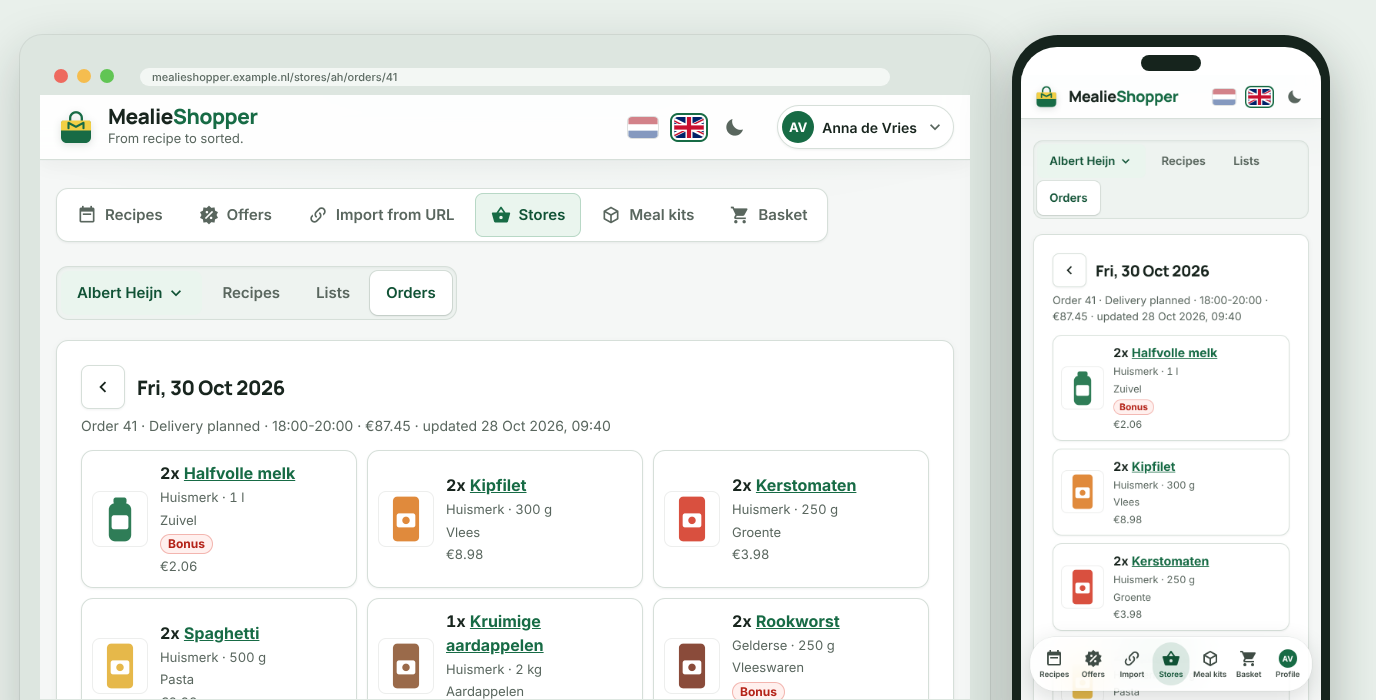
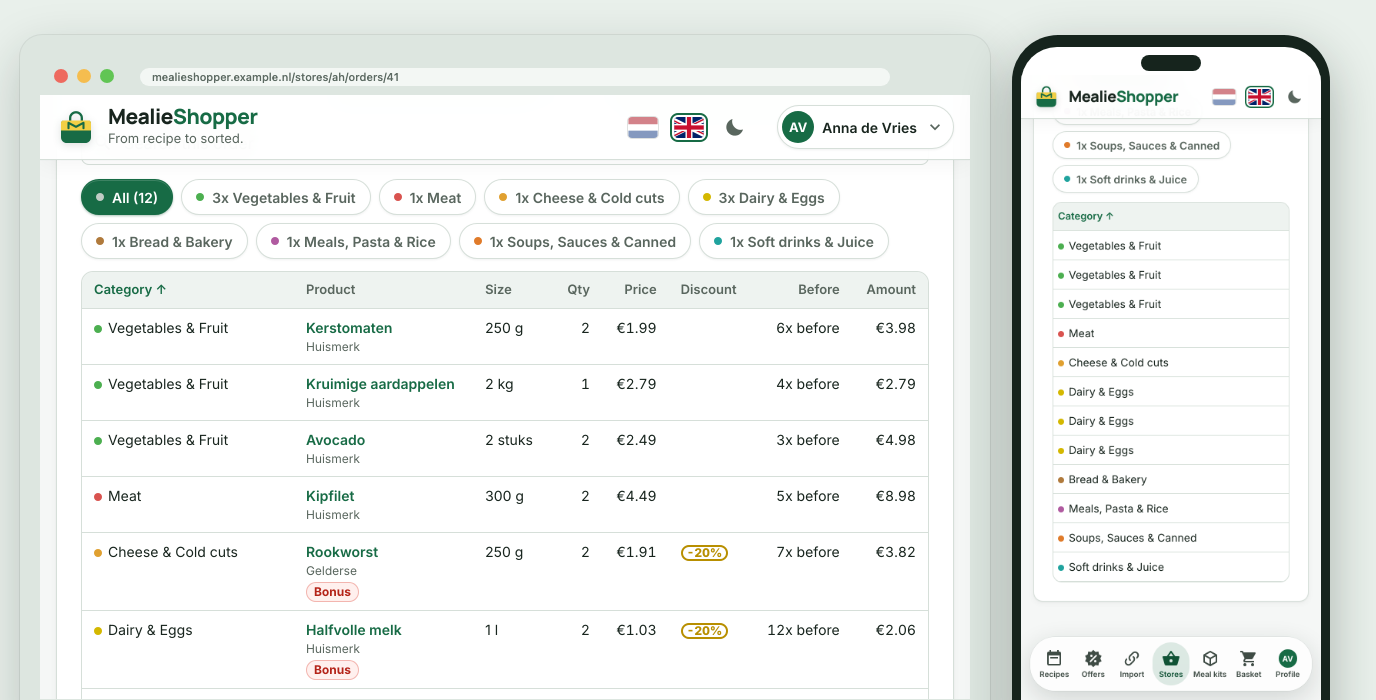
Screenshots van bestelling en kassabon met de weergavebalk van 3.8 (scenario 20 bijgewerkt, ook de lijstscenario's), alt-teksten bij de handleiding en geen puntkomma's meer in de herschreven alinea

diff --git a/scripts/screenshots/scenarios/20-ah-store.js b/scripts/screenshots/scenarios/20-ah-store.js
@@ -86,10 +86,12 @@ async function orders(route, request) {
   const open = (id, date, total, items, text) => ({
     id, kind: "open", state: "OPEN", stateText: text, shoppingType: "HOME_DELIVERY", method: "DELIVERY", total, deliveryDate: date,
     slotStart: "18:00", slotEnd: "20:00", itemsSynced: true, syncedAt: "2026-10-28T09:40:00", itemCount: items,
+    statusKind: "planned", statusText: text,
   });
   const done = (id, date, total, items) => ({
     id, kind: "closed", state: "DELIVERED", stateText: nl ? "Geleverd" : "Delivered", shoppingType: "HOME_DELIVERY", method: "DELIVERY", total, deliveryDate: date,
     slotStart: "17:00", slotEnd: "19:00", itemsSynced: true, syncedAt: "2026-10-28T09:40:00", itemCount: items,
+    statusKind: "delivered", statusText: null,
   });
   await route.fulfill({
     json: {
@@ -106,24 +108,31 @@ async function orders(route, request) {
   });
 }
 
-// [titel, merk, inhoud, taxonomie, aantal, prijs, bonus, kleur, soort]
+// [titel, merk, inhoud, taxonomie, categorie, aantal, prijs, bonus, eerder, kleur, soort]. Sinds 3.8.0 geeft de detailroute per
+// regel de categorie, wat je per stuk betaalde, de gewone prijs (hier de prijs vóór bonus van AH), de korting en hoe vaak je het
+// eerder kocht.
 const ORDER_ITEMS = [
-  ["Halfvolle melk", "Huismerk", "1 l", "Zuivel", 2, 1.29, true, "#2f7d57", "bottle"],
-  ["Kipfilet", "Huismerk", "300 g", "Vlees", 2, 4.49, false, "#e08a3c", "pack"],
-  ["Kerstomaten", "Huismerk", "250 g", "Groente", 2, 1.99, false, "#d9503f", "pack"],
-  ["Spaghetti", "Huismerk", "500 g", "Pasta", 2, 1.49, false, "#e6b84a", "pack"],
-  ["Kruimige aardappelen", "Huismerk", "2 kg", "Aardappelen", 1, 2.79, false, "#9a6a4a", "pack"],
-  ["Rookworst", "Gelderse", "250 g", "Vleeswaren", 2, 2.39, true, "#8a4b3a", "pack"],
-  ["Griekse yoghurt", "Huismerk", "500 g", "Zuivel", 2, 1.89, false, "#5b7fa6", "pack"],
-  ["Volkoren brood", "Bakkerij", "800 g", "Brood", 1, 2.25, false, "#b98a5a", "pack"],
-  ["Biologische eieren", "Huismerk", "10 stuks", "Eieren", 1, 3.39, false, "#d9c9a8", "pack"],
-  ["Avocado", "Huismerk", "2 stuks", "Fruit", 2, 2.49, false, "#4f8a4f", "pack"],
-  ["Kikkererwten", "Huismerk", "400 g", "Conserven", 2, 0.99, false, "#c9a36a", "jar"],
-  ["Appelsap", "Huismerk", "1 l", "Sap", 1, 1.65, false, "#e6a23a", "bottle"],
-].map(([title, brand, unitSize, taxonomy, quantity, price, bonus, color, kind], index) => ({
-  productId: `o${index}`, title, brand, unitSize, quantity, amount: Math.round(quantity * price * (bonus ? 0.8 : 1) * 100) / 100, price,
-  priceBeforeBonus: bonus ? price : null, bonus, taxonomy, image: product(color, kind),
-}));
+  ["Halfvolle melk", "Huismerk", "1 l", "Zuivel", "zuivel_eieren", 2, 1.29, true, 12, "#2f7d57", "bottle"],
+  ["Kipfilet", "Huismerk", "300 g", "Vlees", "vlees", 2, 4.49, false, 5, "#e08a3c", "pack"],
+  ["Kerstomaten", "Huismerk", "250 g", "Groente", "groente_fruit", 2, 1.99, false, 6, "#d9503f", "pack"],
+  ["Spaghetti", "Huismerk", "500 g", "Pasta", "maaltijden", 2, 1.49, false, 5, "#e6b84a", "pack"],
+  ["Kruimige aardappelen", "Huismerk", "2 kg", "Aardappelen", "groente_fruit", 1, 2.79, false, 4, "#9a6a4a", "pack"],
+  ["Rookworst", "Gelderse", "250 g", "Vleeswaren", "kaas_vleeswaren", 2, 2.39, true, 7, "#8a4b3a", "pack"],
+  ["Griekse yoghurt", "Huismerk", "500 g", "Zuivel", "zuivel_eieren", 2, 1.89, false, 4, "#5b7fa6", "pack"],
+  ["Volkoren brood", "Bakkerij", "800 g", "Brood", "brood_bakkerij", 1, 2.25, false, 0, "#b98a5a", "pack"],
+  ["Biologische eieren", "Huismerk", "10 stuks", "Eieren", "zuivel_eieren", 1, 3.39, false, 6, "#d9c9a8", "pack"],
+  ["Avocado", "Huismerk", "2 stuks", "Fruit", "groente_fruit", 2, 2.49, false, 3, "#4f8a4f", "pack"],
+  ["Kikkererwten", "Huismerk", "400 g", "Conserven", "sauzen_conserven", 2, 0.99, false, 2, "#c9a36a", "jar"],
+  ["Appelsap", "Huismerk", "1 l", "Sap", "frisdrank", 1, 1.65, false, 0, "#e6a23a", "bottle"],
+].map(([title, brand, unitSize, taxonomy, category, quantity, price, bonus, before, color, kind], index) => {
+  const paidEach = Math.round(price * (bonus ? 0.8 : 1) * 100) / 100;
+  return {
+    productId: `o${index}`, title, brand, unitSize, quantity, amount: Math.round(quantity * paidEach * 100) / 100, price: paidEach,
+    priceBeforeBonus: bonus ? price : null, bonus, taxonomy, image: product(color, kind), category, paidEach,
+    regularPrice: bonus ? price : null, discount: bonus ? 20 : null, discountSource: bonus ? "store" : null, timesBefore: before,
+  };
+});
+const ORDER_SAVED = Math.round(ORDER_ITEMS.reduce((sum, item) => sum + (item.regularPrice ? (item.regularPrice - item.paidEach) * item.quantity : 0), 0) * 100) / 100;
 
 async function orderDetail(route, request) {
   const nl = (await lang(request)) === "nl";
@@ -131,7 +140,8 @@ async function orderDetail(route, request) {
     json: {
       id: 41, kind: "open", state: "OPEN", stateText: nl ? "Bezorging gepland" : "Delivery planned", shoppingType: "HOME_DELIVERY", method: "DELIVERY",
       total: 87.45, deliveryDate: "2026-10-30", slotStart: "18:00", slotEnd: "20:00", itemsSynced: true, syncedAt: "2026-10-28T09:40:00",
-      itemCount: ORDER_ITEMS.length, items: ORDER_ITEMS,
+      itemCount: ORDER_ITEMS.length, items: ORDER_ITEMS, saved: ORDER_SAVED, savedPercent: Math.round((ORDER_SAVED / (87.45 + ORDER_SAVED)) * 100),
+      statusKind: "planned", statusText: nl ? "Bezorging gepland" : "Delivery planned",
     },
   });
 }
@@ -143,38 +153,53 @@ const RECEIPTS = [
   ["2026-10-15T08:55:00", 9.43, 4],
   ["2026-10-11T16:20:00", 33.9, 13],
   ["2026-10-06T19:02:00", 27.18, 10],
-].map(([dateTime, total, itemCount], index) => ({ id: `kb-${index + 1}`, dateTime, total, detailsSynced: true, itemCount }));
+].map(([dateTime, total, itemCount], index) => ({ id: `kb-${index + 1}`, dateTime, total, detailsSynced: true, itemCount, statusKind: "receipt", statusText: null }));
 
 const receiptList = { syncedAt: "2026-10-28T09:41:00", receipts: RECEIPTS };
 
 // De kassabon van 27 oktober, zoals op papier: aantal, omschrijving, prijs en bedrag. De meeste regels zijn gekoppeld aan een
-// webwinkelproduct (naam en foto, voor de productweergave); twee niet, die houden de afgekorte naam van de bon.
+// webwinkelproduct (naam en foto, voor de kaarten); twee niet, die houden de afgekorte naam van de bon. Sinds 3.8.0 geeft de
+// detailroute per regel ook de categorie, de bonus van de bonusregels, wat je per stuk betaalde en de korting, en voor de bon wat
+// je bespaarde en hoeveel regels nog zonder product zijn (`linkingTodo`).
 const receiptDetail = {
   ...RECEIPTS[0],
   items: [
-    ["AH HALFVOLLE MELK", 2, 1.29, 2.58, "AH Halfvolle melk 1 l"],
-    ["AH KIPFILET", 1, 4.49, 4.49, "AH Kipfilet 300 g"],
-    ["AH KERSTOMATEN", 1, 1.99, 1.99, "AH Kerstomaten 250 g"],
-    ["AH SPAGHETTI", 2, 1.49, 2.98, "AH Spaghetti 500 g"],
-    ["AH PESTO VERDE", 1, 2.19, 2.19, "AH Pesto verde 190 g"],
-    ["GELDERSE ROOKWORST", 1, 2.39, 2.39, "Gelderse rookworst 250 g"],
-    ["AH GRIEKSE YOGHURT", 2, 1.89, 3.78, "AH Griekse yoghurt 500 g"],
-    ["AH VOLKORENBROOD", 1, 2.25, 2.25, "AH Volkorenbrood heel"],
-    ["AH BIO EIEREN 10 ST", 1, 3.39, 3.39, "AH Biologisch scharreleieren 10 stuks"],
-    ["AVOCADO 2 STUKS", 2, 2.49, 4.98, null],
-    ["AH KIKKERERWTEN", 2, 0.99, 1.98, "AH Kikkererwten 400 g"],
-    ["AH KOKOSMELK", 1, 1.35, 1.35, "AH Kokosmelk 400 ml"],
-    ["APPELSAP 1 L", 1, 1.65, 1.65, null],
-    ["AH FRISDRANK COLA ZERO", 3, 1.19, 3.57, "AH Frisdrank cola zero 1,5 l"],
-  ].map(([name, quantity, price, amount, title], index) => ({
+    ["AH HALFVOLLE MELK", 2, 1.29, 2.58, "AH Halfvolle melk 1 l", "zuivel_eieren", 0.52, 12],
+    ["AH KIPFILET", 1, 4.49, 4.49, "AH Kipfilet 300 g", "vlees", 0, 5],
+    ["AH KERSTOMATEN", 1, 1.99, 1.99, "AH Kerstomaten 250 g", "groente_fruit", 0, 6],
+    ["AH SPAGHETTI", 2, 1.49, 2.98, "AH Spaghetti 500 g", "maaltijden", 0, 5],
+    ["AH PESTO VERDE", 1, 2.19, 2.19, "AH Pesto verde 190 g", "sauzen_conserven", 0, 1],
+    ["GELDERSE ROOKWORST", 1, 2.39, 2.39, "Gelderse rookworst 250 g", "kaas_vleeswaren", 0.48, 7],
+    ["AH GRIEKSE YOGHURT", 2, 1.89, 3.78, "AH Griekse yoghurt 500 g", "zuivel_eieren", 0, 4],
+    ["AH VOLKORENBROOD", 1, 2.25, 2.25, "AH Volkorenbrood heel", "brood_bakkerij", 0, 0],
+    ["AH BIO EIEREN 10 ST", 1, 3.39, 3.39, "AH Biologisch scharreleieren 10 stuks", "zuivel_eieren", 0, 6],
+    ["AVOCADO 2 STUKS", 2, 2.49, 4.98, null, "groente_fruit", 0, 0],
+    ["AH KIKKERERWTEN", 2, 0.99, 1.98, "AH Kikkererwten 400 g", "sauzen_conserven", 0, 2],
+    ["AH KOKOSMELK", 1, 1.35, 1.35, "AH Kokosmelk 400 ml", "sauzen_conserven", 0, 1],
+    ["APPELSAP 1 L", 1, 1.65, 1.65, null, "frisdrank", 0, 0],
+    ["AH FRISDRANK COLA ZERO", 3, 1.19, 3.57, "AH Frisdrank cola zero 1,5 l", "frisdrank", 0, 4],
+  ].map(([name, quantity, price, amount, title, category, bonus, before], index) => ({
     productId: `r${index}`, name, quantity, price, amount,
     product: title ? { id: `p${index}`, title, image: LIST_ITEMS[index % LIST_ITEMS.length].product.image } : null,
+    category, bonus, paidEach: Math.round((price - bonus / quantity) * 100) / 100, regularPrice: bonus ? price : null,
+    discount: bonus ? Math.round((bonus / amount) * 100) : null, discountSource: bonus ? "store" : null, timesBefore: title ? before : 0,
   })),
   discounts: [
     { name: "BONUS HALFVOLLE MELK", amount: -0.52 },
     { name: "BONUS ROOKWORST", amount: -0.48 },
   ],
   payments: [{ method: "PIN", amount: 41.36 }],
+  saved: 1.0,
+  savedPercent: 2,
+  statusKind: "receipt",
+  statusText: null,
+  linkingTodo: { unlinked: 2, due: 2 },
+};
+
+// De toestand van het koppelen (GET /api/ah/linking): geen pauze, wat budget over en wat werk voor de nacht.
+const linking = {
+  pausedUntil: null, pausedSince: null, pausedStatus: null, budget: { used: 12, limit: 120, resetAt: null },
+  todo: { lines: 9, receipts: 4, images: 3 }, lastRound: null, nextRound: "2026-10-29T02:00:00+00:00", running: null,
 };
 
 // Zoeken op "frisdrank": producten, kassabonnen met de passende regels en bestellingen.
@@ -214,6 +239,7 @@ const routes = {
   "/api/ah/receipts/*": receiptDetail,
   "/api/ah/receipts/search*": receiptHits,
   "/api/ah/purchases/search*": purchaseHits,
+  "/api/ah/linking": linking,
 };
 
 // ---- in bulk importeren (2.98) -----------------------------------------------------------------------------
@@ -279,6 +305,14 @@ const scrollTo = (page, selector) =>
   page.evaluate((target) => {
     window.scrollTo(0, document.querySelector(target).getBoundingClientRect().top + window.scrollY - 84);
   }, selector);
+
+// Na het kiezen van een weergave op de bestelpagina: de muis weg (anders staat er een hover op een chip die onder de knop
+// schoof) en naar de weergave zelf. Op een telefoon vullen de chips het eerste scherm, daar meteen naar de regels.
+async function settleOrderView(page, device) {
+  await page.mouse.move(2, 2);
+  await page.waitForTimeout(400);
+  await scrollTo(page, device === "phone" ? "#ah-order-items" : "#order-categories");
+}
 
 module.exports = [
   {
@@ -348,24 +382,30 @@ module.exports = [
     routes,
     run: async (page) => {
       await openStores("ah-items-bestellingen")(page);
-      await scrollTo(page, "#ah-orders-main");
+      await scrollTo(page, "#ah-orders-view");
     },
   },
   {
+    // Een bestelling als tabel (de weergave per categorie staat in order-categories, scenario 22).
     name: "order",
     routes,
-    run: async (page) => {
+    run: async (page, { device }) => {
       await openStores("ah-items-bestellingen")(page);
       await page.click('[data-order-id="41"]');
       await page.waitForTimeout(800);
+      await page.click('[data-view-bar="order"] [data-view="table"]');
+      await settleOrderView(page, device);
     },
   },
   {
     name: "receipts",
     routes,
     run: async (page) => {
+      // Sinds de ene tabel met aankopen: alleen de kassabonnen aangevinkt.
       await openStores("ah-items-bestellingen")(page);
-      await scrollTo(page, "#ah-receipts-block");
+      await page.uncheck("#ah-filter-orders");
+      await page.waitForTimeout(400);
+      await scrollTo(page, "#ah-orders-view");
     },
   },
   {
@@ -375,19 +415,21 @@ module.exports = [
       await openStores("ah-items-bestellingen")(page);
       await page.click('[data-receipt-id="kb-1"]');
       await page.waitForTimeout(800);
+      await page.click('[data-view-bar="order"] [data-view="paper"]');
+      await page.waitForTimeout(400);
       await scrollTo(page, "#ah-order-detail");
     },
   },
   {
+    // Dezelfde bon in de weergave Kaarten van de weergavebalk (tot 3.7 de productweergave van de bon).
     name: "receipt-products",
     routes,
-    run: async (page) => {
+    run: async (page, { device }) => {
       await openStores("ah-items-bestellingen")(page);
       await page.click('[data-receipt-id="kb-1"]');
       await page.waitForTimeout(800);
-      await page.click('#receipt-view [data-view="products"]');
-      await page.waitForTimeout(400);
-      await scrollTo(page, "#ah-order-detail");
+      await page.click('[data-view-bar="order"] [data-view="cards"]');
+      await settleOrderView(page, device);
     },
   },
   {
@@ -398,7 +440,7 @@ module.exports = [
       await page.fill("#ah-purchase-filter", "frisdrank");
       await page.waitForTimeout(1200);
       await page.evaluate(() => document.activeElement.blur());
-      await scrollTo(page, "#ah-purchase-results h3");
+      await scrollTo(page, "#ah-orders-view");
     },
   },
 ];

diff --git a/docs/handleiding.md b/docs/handleiding.md
@@ -151,7 +151,7 @@ Je favoriete lijstjes als kaarten. Synchroniseer ze naar MealieShopper, zoek op 
 
 ### Winkels: AH-bestellingen en kassabonnen
 
-Je bestellingen en kassabonnen staan samen in één tabel, de nieuwste bovenaan. Erboven kies je wat je ziet: vinkjes voor bestellingen en kassabonnen, een bedrag van en tot, en het zoekveld. Je **kassabonnen** uit de winkel staan geopend als een **bonnetje** zoals op papier: een smalle strook met aantal, omschrijving, prijs en bedrag, de bonusregels, het totaal en hoe je betaalde. In de balk onder de titel wissel je naar **Per categorie**, **Kaarten** of **Tabel** (zie *Een bestelling openen* hieronder): dezelfde regels met de naam en de foto van het webwinkelproduct waaraan de regel gekoppeld is (een regel die nog niet gekoppeld is houdt de afgekorte naam van de bon) en de bonusregels eronder. Onder de titel staan het aantal artikelen, het totaal en de betaalwijze, en in de kop het bespaarde bedrag. Een omschrijving of een kaart linkt naar de prijsgeschiedenis van het webwinkelproduct waaraan het artikelnummer op de bon gekoppeld is; bij het openen zoekt MealieShopper de regels op die nog niet gekoppeld zijn (een paar per keer, zuinig voor AH) en haalt hij de foto's op van de gekoppelde regels die er nog geen hebben. Alles staat in een lokale kopie; het zoekveld doorzoekt de producten in al je bestellingen en bonnen (zoek bijvoorbeeld op "frisdrank") en laat alleen de aankopen met dat product zien, met de gevonden regels in de kolom Producten; open je zo'n bon, dan zijn de passende regels geel gemarkeerd. Je **aankomende bestellingen** (nog open, met bezorgmoment) staan bovenaan, je **afgelopen bestellingen** (geleverd, voor altijd bewaard) ertussen op hun datum; open een bestelling voor de producten. Je AH-mandje staat onder het tabblad Mandje.
+Je bestellingen en kassabonnen staan samen in één tabel, de nieuwste bovenaan. Erboven kies je wat je ziet: vinkjes voor bestellingen en kassabonnen, een bedrag van en tot, en het zoekveld. Je **kassabonnen** uit de winkel staan geopend als een **bonnetje** zoals op papier: een smalle strook met aantal, omschrijving, prijs en bedrag, de bonusregels, het totaal en hoe je betaalde. In de balk onder de titel wissel je naar **Per categorie**, **Kaarten** of **Tabel** (zie *Een bestelling openen* hieronder): dezelfde regels met de naam en de foto van het webwinkelproduct waaraan de regel gekoppeld is (een regel die nog niet gekoppeld is houdt de afgekorte naam van de bon) en de bonusregels eronder. Onder de titel staan het aantal artikelen, het totaal en de betaalwijze, en in de kop het bespaarde bedrag. Een omschrijving of een kaart linkt naar de prijsgeschiedenis van het webwinkelproduct waaraan het artikelnummer op de bon gekoppeld is. Bij het openen zoekt MealieShopper de regels op die nog niet gekoppeld zijn (een paar per keer, zuinig voor AH) en haalt hij de foto's op van de gekoppelde regels die er nog geen hebben. Alles staat in een lokale kopie. Het zoekveld doorzoekt de producten in al je bestellingen en bonnen (zoek bijvoorbeeld op "frisdrank") en laat alleen de aankopen met dat product zien, met de gevonden regels in de kolom Producten. Open je zo'n bon, dan zijn de passende regels geel gemarkeerd. Je **aankomende bestellingen** (nog open, met bezorgmoment) staan bovenaan, je **afgelopen bestellingen** (geleverd, voor altijd bewaard) ertussen op hun datum. Open een bestelling voor de producten. Je AH-mandje staat onder het tabblad Mandje.
 
 **Tabel, kaarten of overzicht.** Rechts boven de lijst wissel je tussen drie weergaven van dezelfde gefilterde lijst: de **Tabel**, **Kaarten** met een collage van productfoto's (vier, of zes bij grote kaarten) en het **Overzicht** met per aankoop de details op een rij en rechts een strook foto's (rechts, op een vaste breedte, zodat de tekst in elke rij op dezelfde plek begint). Een kassabon toont de foto's van de webwinkelproducten waaraan zijn regels gekoppeld zijn. Een ingelezen bestelling toont de foto's van de producten waar haar regels bij horen; een ingelezen bestelling of een bon zonder gekoppelde producten krijgt het pictogram van zijn soort en de eerste productnamen. Elke soort heeft een kleur: groen voor een bestelling, geel voor een kassabon, grijs voor een ingelezen bestelling, als bolletje in de tabel en bij de vinkjes en als streep op de kaarten en in het overzicht. Een ingelezen bestelling heet verder gewoon *Bestelling*, met een archiefdoos erachter (wijs je die aan, dan staat er *Geïmporteerd uit je bevestigingsmails*). Met **Sorteren** kies je datum, bedrag of aantal producten, oplopend of aflopend (een klik op een kolomkop in de tabel doet hetzelfde). Met **Opties** kies je de kaartgrootte en wat een kaart laat zien: status en bezorgmoment (bij een bon de betaalwijze), het bespaarde bonusbedrag en de productnamen. Bij zoeken tonen de kaarten en het overzicht de gevonden regels. De weergave, de sortering en de opties blijven bewaard in je browser, ook als je een bestelling opent en teruggaat. Wisselen en sorteren gaan zonder verzoek aan de server.
 
@@ -169,7 +169,7 @@ Je bestellingen en kassabonnen staan samen in één tabel, de nieuwste bovenaan.
 
 **Als AH even niet wil.** Bonregels koppelen aan een product en foto's ophalen doet MealieShopper rustig: hooguit 120 zoekopdrachten per uur, en na een 403 of 429 van AH twaalf uur niets. Dan staat er een melding boven de lijst met aankopen. Bij een pauze is die oranje en noemt hij wanneer AH weigerde en tot wanneer het koppelen wacht. Is het uurbudget op, dan noemt hij wanneer het weer kan. Wacht er alleen werk op de nacht, dan is hij groen en noemt hij hoeveel artikelen en foto's er nog open staan en wanneer de volgende ronde is. Is er niets te doen, dan staat er geen melding. Een kassabon met regels zonder product krijgt dezelfde melding onder de kop, met hoeveel van de regels nog geen product hebben. Zocht AH die regels de laatste 30 dagen al op, dan zegt de melding dat de volgende poging vanzelf komt en staat de knop uit. De beheerder ziet onder **Instellingen, Koppelen** altijd het vak *Producten koppelen en foto's ophalen bij AH*: de toestand, een meter voor het uurbudget, wat er te doen is, de laatste en de volgende ronde, en de knoppen **Nu een ronde koppelen** en **Foto's aanvullen** (alleen foto's, zonder zoekopdrachten). **Nu ophalen** in de melding (op een bon alleen voor die bon) mag iedereen die is ingelogd. Een ronde blijft binnen het tempo en het uurbudget, en de melding volgt hem tot hij klaar is. **Nu toch proberen** bij een pauze ziet alleen de beheerder: dat wist de pauze, en een nieuwe 403 of 429 zet hem opnieuw op twaalf uur.
 
-<img src="screenshots/nl/linking-notice.png" alt="Boven de lijst met aankopen een oranje melding: AH weigerde onze verzoeken, koppelen en foto's ophalen wachten tot een tijdstip, met het aantal regels zonder product en de knop Nu toch proberen" width="900">
+<img src="screenshots/nl/linking-notice.png" alt="Boven de lijst met aankopen een oranje melding: AH weigerde onze verzoeken, koppelen en foto's ophalen wachten tot een tijdstip, met het aantal artikelen zonder product en de knop Nu toch proberen" width="900">
 
 Oudere bestellingen uit je bevestigingsmails lees je hier in met **Oude aankopen importeren** (alleen de beheerder, zie *Aanbiedingen*). Ze staan tussen je afgelopen bestellingen op hun datum en zien eruit als een bestelling uit je account: *Bestelling* met een archiefdoos erachter, de status en het bezorgmoment uit de mail (*Afgeleverd · 18:00-20:00*), en per product de foto, het merk en de inhoud van het product waar de regel bij hoort (op naam gekoppeld, zoals in de Prijsgeschiedenis). Een ingelezen bestelling staat altijd als *Afgeleverd*, ook als je haar inlas vóór versie 3.5.0 of de mail geen status noemde: ze telt als gekocht, en een geannuleerde bestelling wordt niet ingelezen. Noemde de mail geen tijd, dan staat die van de bestelling uit je account er. Open ze voor de producten, en het zoekveld vindt ze ook. Staat dezelfde bestelling zonder producten in je account (dat gebeurt bij oude Jumbo-bestellingen), dan staat alleen de ingelezen versie in de lijst, met de producten uit je mail. Haalt MealieShopper de producten later toch op, dan staat de bestelling uit je account er weer en valt de ingelezen versie weg. Met de prullenbak op de kaart verwijdert de beheerder een ingelezen bestelling in zijn geheel; ze telt dan ook niet meer mee in de Prijsgeschiedenis. Dat werkt net zo bij Jumbo, Picnic en Crisp. Bij Picnic en Crisp heeft een ingelezen bestelling dezelfde kaart als een bezorgde bestelling, en zet **Alles in mandje** de gekoppelde producten in je mandje (wat bij geen product hoort, noemt de melding).
 
@@ -177,13 +177,13 @@ Oudere bestellingen uit je bevestigingsmails lees je hier in met **Oude aankopen
 
 <img src="screenshots/nl/history.png" alt="Aankomende en afgelopen bestellingen, met het synchroniseer-icoon en een zoekveld" width="900">
 
-<img src="screenshots/nl/order.png" alt="Een bestelling met de producten" width="900">
+<img src="screenshots/nl/order.png" alt="Een bestelling als tabel: per regel de categorie met een kleurbolletje, het product, de inhoud, het aantal, de prijs, de korting, hoe vaak je het eerder kocht en het bedrag" width="900">
 
 <img src="screenshots/nl/receipts.png" alt="De lijst met kassabonnen en een zoekveld in je aankopen" width="900">
 
-<img src="screenshots/nl/receipt.png" alt="Een kassabon als bonnetje zoals op papier, met de schakelaar naar de productweergave in de kop" width="900">
+<img src="screenshots/nl/receipt.png" alt="Een kassabon als bonnetje zoals op papier, met de statusbadge en het bespaarde bedrag in de kop, de melding over regels zonder product en de weergavebalk met Bon gekozen" width="900">
 
-<img src="screenshots/nl/receipt-products.png" alt="Dezelfde kassabon als producten: kaarten met de naam en de foto van het webwinkelproduct, en de bonusregels eronder" width="900">
+<img src="screenshots/nl/receipt-products.png" alt="Dezelfde kassabon als kaarten: per regel een kaart in de kleur van de categorie, met de naam en de foto van het webwinkelproduct, de korting, hoe vaak je het eerder kocht en de bonus" width="900">
 
 <img src="screenshots/nl/receipt-search.png" alt="Zoeken op product: de kassabonnen waarop het staat, met de passende regels" width="900">
 

diff --git a/docs/handleiding.en.md b/docs/handleiding.en.md
@@ -151,7 +151,7 @@ Your favourite lists as cards. Sync them to MealieShopper, search by name or by 
 
 ### Stores: AH orders and receipts
 
-Your orders and receipts share one table, newest first. Above it you choose what you see: checkboxes for orders and receipts, an amount from and to, and the search field. Your **receipts** from the shop open as a **receipt** the way they look on paper: a narrow strip with quantity, description, price and amount, the bonus lines, the total and how you paid. In the bar under the title you switch to **By category**, **Cards** or **Table** (see *Opening an order* below): the same lines with the name and the photo of the webshop product the line is linked to (a line that is not linked yet keeps the abbreviated name from the receipt) and the bonus lines below. Under the title are the number of items, the total and the payment method, and the header shows the amount saved. A description or a card links to the price history of the web shop product the article number on the receipt is linked to; when you open a receipt, MealieShopper looks up the lines that are not linked yet (a few at a time, gentle on AH) and fetches the photos of the linked lines that do not have one yet. Everything is kept in a local copy; the search field searches the products in all your orders and receipts (search for "soda", for example) and shows only the purchases with that product, with the matching lines in the Products column; open such a receipt and the matching lines are highlighted. Your **upcoming orders** (still open, with their delivery time) are at the top, your **past orders** (delivered, kept for good) among them on their date; open an order for its products. Your AH basket is under the Basket tab.
+Your orders and receipts share one table, newest first. Above it you choose what you see: checkboxes for orders and receipts, an amount from and to, and the search field. Your **receipts** from the shop open as a **receipt** the way they look on paper: a narrow strip with quantity, description, price and amount, the bonus lines, the total and how you paid. In the bar under the title you switch to **By category**, **Cards** or **Table** (see *Opening an order* below): the same lines with the name and the photo of the webshop product the line is linked to (a line that is not linked yet keeps the abbreviated name from the receipt) and the bonus lines below. Under the title are the number of items, the total and the payment method, and the header shows the amount saved. A description or a card links to the price history of the web shop product the article number on the receipt is linked to. When you open a receipt, MealieShopper looks up the lines that are not linked yet (a few at a time, gentle on AH) and fetches the photos of the linked lines that do not have one yet. Everything is kept in a local copy. The search field searches the products in all your orders and receipts (search for "soda", for example) and shows only the purchases with that product, with the matching lines in the Products column. Open such a receipt and the matching lines are highlighted. Your **upcoming orders** (still open, with their delivery time) are at the top, your **past orders** (delivered, kept for good) among them on their date. Open an order for its products. Your AH basket is under the Basket tab.
 
 **Table, cards or overview.** Above the list on the right you switch between three views of the same filtered list: the **Table**, **Cards** with a collage of product photos (four, or six on large cards) and the **Overview** with the details of each purchase on one row and a strip of photos on the right (on the right, at a fixed width, so the text of every row starts at the same place). A receipt shows the photos of the webshop products its lines are linked to. An imported order shows the photos of the products its lines belong to; an imported order or a receipt without linked products gets the icon of its kind and the first product names. Each kind has a colour: green for an order, yellow for a receipt, grey for an imported order, as a dot in the table and at the checkboxes and as a stripe on the cards and in the overview. Otherwise an imported order is simply called *Order*, with an archive box after it (point at it and it says *Imported from your confirmation emails*). With **Sort** you choose date, amount or number of products, ascending or descending (clicking a column header in the table does the same). With **Options** you choose the card size and what a card shows: status and delivery slot (the payment method for a receipt), the bonus amount saved and the product names. When searching, the cards and the overview show the matching lines. The view, the sort order and the options are kept in your browser, also when you open an order and go back. Switching and sorting need no request to the server.
 
@@ -169,7 +169,7 @@ Your orders and receipts share one table, newest first. Above it you choose what
 
 **When AH holds back.** MealieShopper links receipt lines to a product and fetches photos at a calm pace: at most 120 searches an hour, and nothing for twelve hours after a 403 or 429 from AH. A notice above the list of purchases then says so. During a pause it is orange and names when AH refused and until when the linking waits. When the hourly budget is spent, it names when it can go on. When only work for the night is waiting, it is green and names how many articles and photos are still open and when the next round is. With nothing to do there is no notice. A receipt with lines without a product gets the same notice under its header, with how many of its lines have no product yet. When AH already searched those lines in the last 30 days, the notice says the next attempt comes by itself and the button is off. Under **Settings, Link** the administrator always sees the box *Linking products and fetching photos at AH*: the state, a meter for the hourly budget, what there is to do, the last and the next round, and the buttons **Run a linking round now** and **Fill in photos** (photos only, without searches). **Fetch now** in the notice (on a receipt for that receipt only) is for everyone who is logged in. A round stays within the pace and the hourly budget, and the notice follows it until it is done. **Try anyway** during a pause is shown to the administrator only: it clears the pause, and a new 403 or 429 sets it to twelve hours again.
 
-<img src="screenshots/en/linking-notice.png" alt="Above the list of purchases an orange notice: AH refused our requests, linking and fetching photos wait until a given time, with the number of lines without a product and the Try anyway button" width="900">
+<img src="screenshots/en/linking-notice.png" alt="Above the list of purchases an orange notice: AH refused our requests, linking and fetching photos wait until a given time, with the number of articles without a product and the Try anyway button" width="900">
 
 Older orders from your confirmation emails can be read in here with **Import old purchases** (administrator only, see *Offers*). They are among your past orders on their date and look like an order from your account: *Order* with an archive box after it, the status and delivery time from the email (*Delivered · 18:00-20:00*), and per product the photo, brand and size of the product the line belongs to (matched by name, as in the Price history). An imported order is always shown as *Delivered*, also when you imported it before version 3.5.0 or the email named no status: it counts as bought, and a cancelled order is not imported. When the email named no time, the one of the order in your account is shown. Open them for the products, and the search field finds them too. When the same order is in your account without products (this happens with old Jumbo orders), only the imported version is listed, with the products from your email. If MealieShopper fetches the products later after all, the order from your account is back and the imported version drops out. With the bin on the card the administrator removes an imported order as a whole; it then no longer counts in the Price history either. It works the same at Jumbo, Picnic and Crisp. At Picnic and Crisp an imported order has the same card as a delivered order, and **Add all to basket** puts the linked products in your basket (the message names what matched no product).
 
@@ -177,13 +177,13 @@ Older orders from your confirmation emails can be read in here with **Import old
 
 <img src="screenshots/en/history.png" alt="Upcoming and past orders, with the sync icon and a search field" width="900">
 
-<img src="screenshots/en/order.png" alt="An order with its products" width="900">
+<img src="screenshots/en/order.png" alt="An order as a table: per line the category with a colour dot, the product, the size, the quantity, the price, the discount, how often you bought it before and the amount" width="900">
 
 <img src="screenshots/en/receipts.png" alt="The list of receipts and a search field for your purchases" width="900">
 
-<img src="screenshots/en/receipt.png" alt="A receipt the way it looks on paper, with the switch to the products view in the header" width="900">
+<img src="screenshots/en/receipt.png" alt="A receipt the way it looks on paper, with the status badge and the amount saved in the header, the notice about lines without a product and the view bar with Receipt chosen" width="900">
 
-<img src="screenshots/en/receipt-products.png" alt="The same receipt as products: cards with the name and the photo of the webshop product, and the bonus lines below" width="900">
+<img src="screenshots/en/receipt-products.png" alt="The same receipt as cards: a card per line in the colour of its category, with the name and the photo of the webshop product, the discount, how often you bought it before and the bonus" width="900">
 
 <img src="screenshots/en/receipt-search.png" alt="Searching by product: the receipts it is on, with the matching lines" width="900">
 
